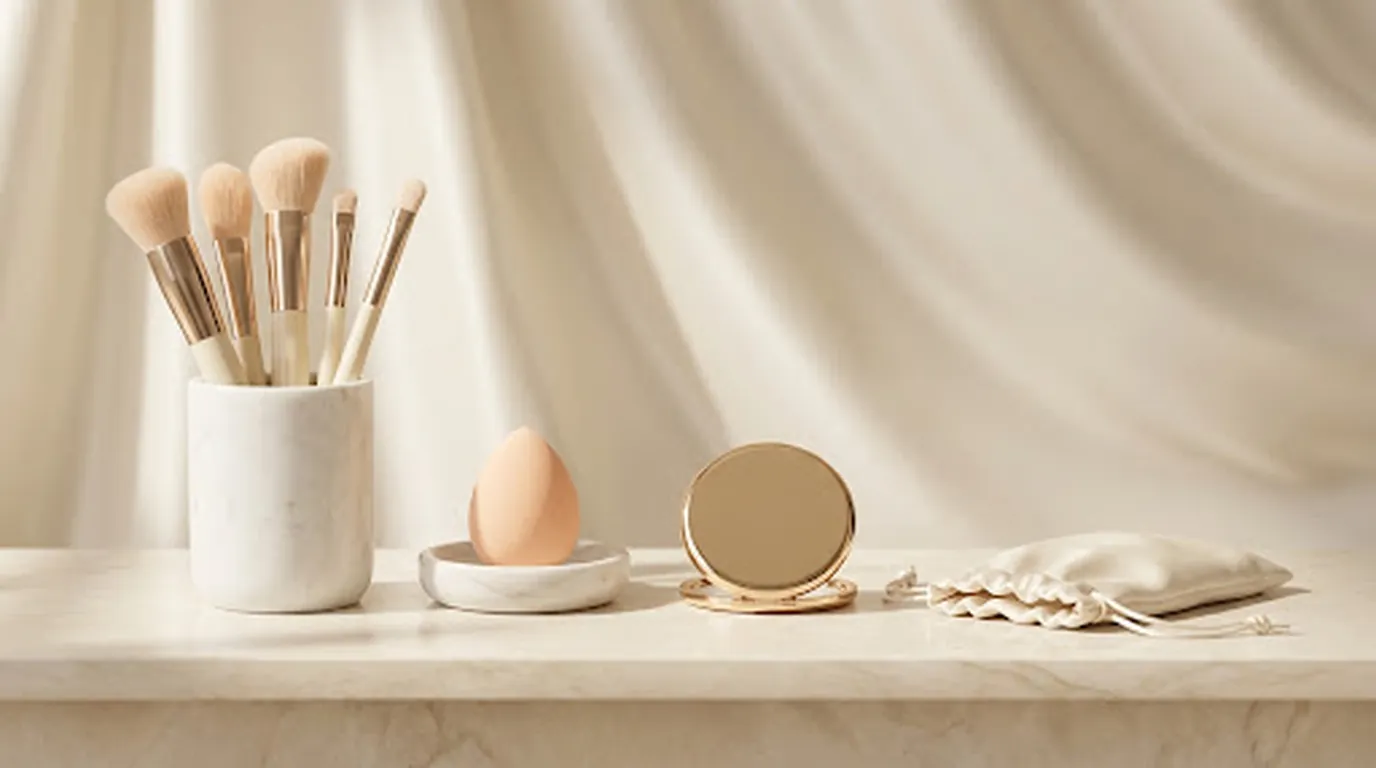
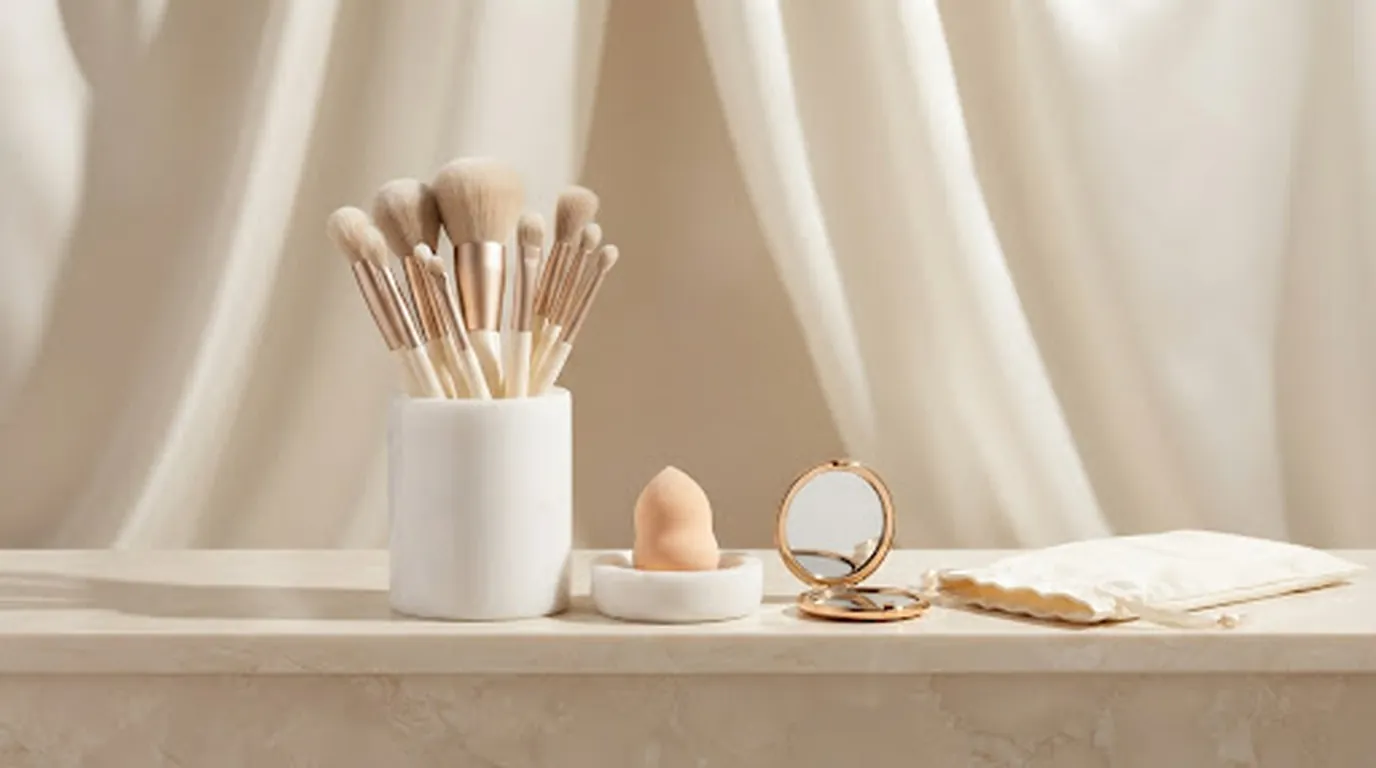
fix(beauty): World tile arrows pointed backwards; reshoot four weak tiles
The drill-down chevron on a World tile was `chevronLeft` with `rtl:rotate-180`,
which points backwards in BOTH directions — left in LTR where forward is right,
and right in RTL where forward is left. Now `chevronRight` with the same flip,
so it always points the way the reader is going.

The Back button above the grid had the mirror image of the same bug: the
`arrow` glyph points right, so in LTR it rendered "→ Back". It now flips in LTR
and stays put in RTL.

Four tiles reshot for framing:

  eye-makeup          the macro crop ran the palette off the left edge and cut
                      the mirror and mascara. Moved to an angled cluster where
                      the open palette, mascara, liner and brush all fit.
  brow-makeup         objects were tiny and huddled bottom-right with dead
                      space above. Now a proper macro of three items.
  makeup-accessories  brushes clipped at the top, pouch cut at the right.
  elec-hair-styling   the arch swallowed the group and the dryer read as a
                      blob. Straightened onto the ledge, appliances upright.

Claude-Session: https://claude.ai/code/session_01NXYraC7kgt5k312aPZCPpN

diff --git a/components/beauty/WorldGrid.jsx b/components/beauty/WorldGrid.jsx
@@ -47,7 +47,9 @@ export default function WorldGrid({
           <div className="flex items-center gap-2">
             {backHref && (
               <Link href={backHref} className="btn-ghost size-md">
-                <Icon name="arrow" size={16} className="rtl:rotate-180" /> {c.back}
+                {/* `arrow` points right, so Back has to flip it in LTR and
+                    leave it alone in RTL — the reverse of the tile chevron. */}
+                <Icon name="arrow" size={16} className="rotate-180 rtl:rotate-0" /> {c.back}
               </Link>
             )}
             {browseAllHref && (
@@ -118,7 +120,10 @@ export default function WorldGrid({
                           )}
                         </div>
                         <span className="shrink-0 grid place-items-center w-9 h-9 rounded-full bg-white/20 backdrop-blur-sm text-white transition-colors group-hover:bg-white/30">
-                          <Icon name={drills ? "chevronLeft" : "arrowUpRight"} size={16} className={drills ? "rtl:rotate-180" : ""} />
+                          {/* Points the way the reader is going: right in LTR,
+                              left in RTL. It was chevronLeft + rtl:rotate-180,
+                              which pointed backwards in BOTH directions. */}
+                          <Icon name={drills ? "chevronRight" : "arrowUpRight"} size={16} className={drills ? "rtl:rotate-180" : ""} />
                         </span>
                       </div>
                     </div>
